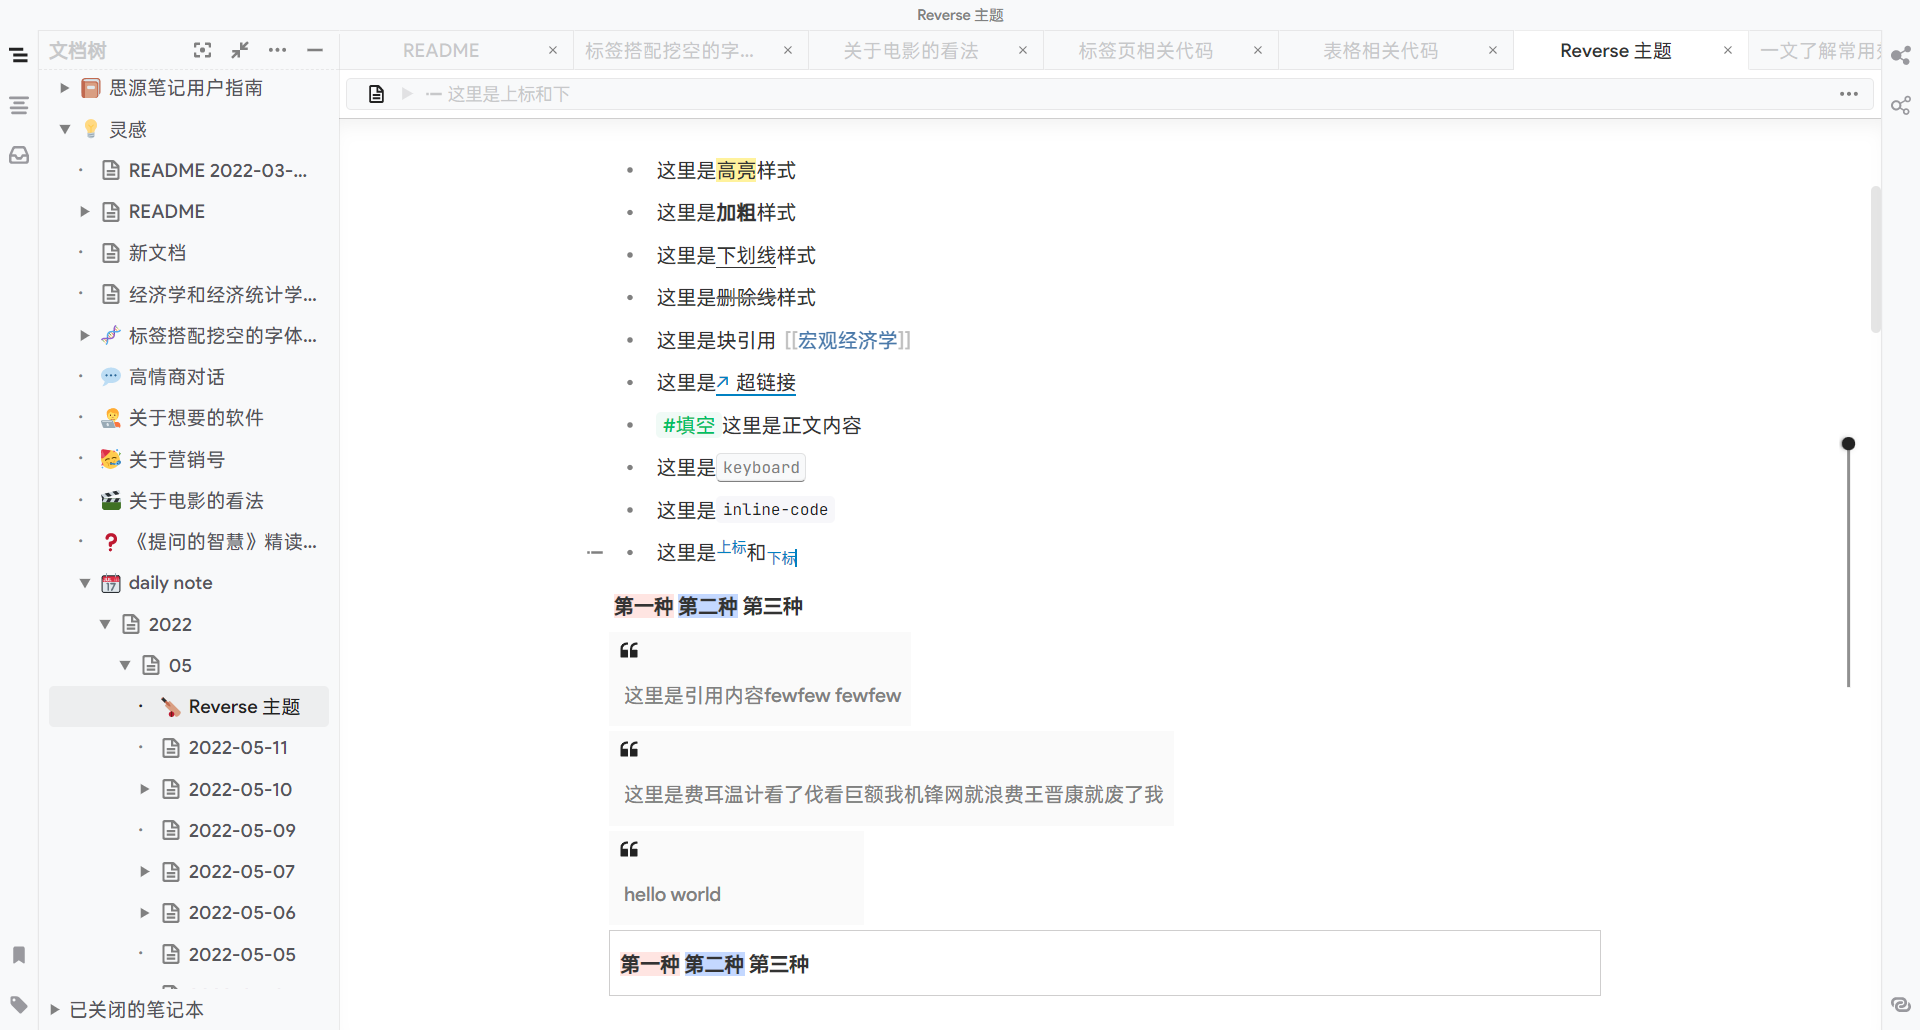
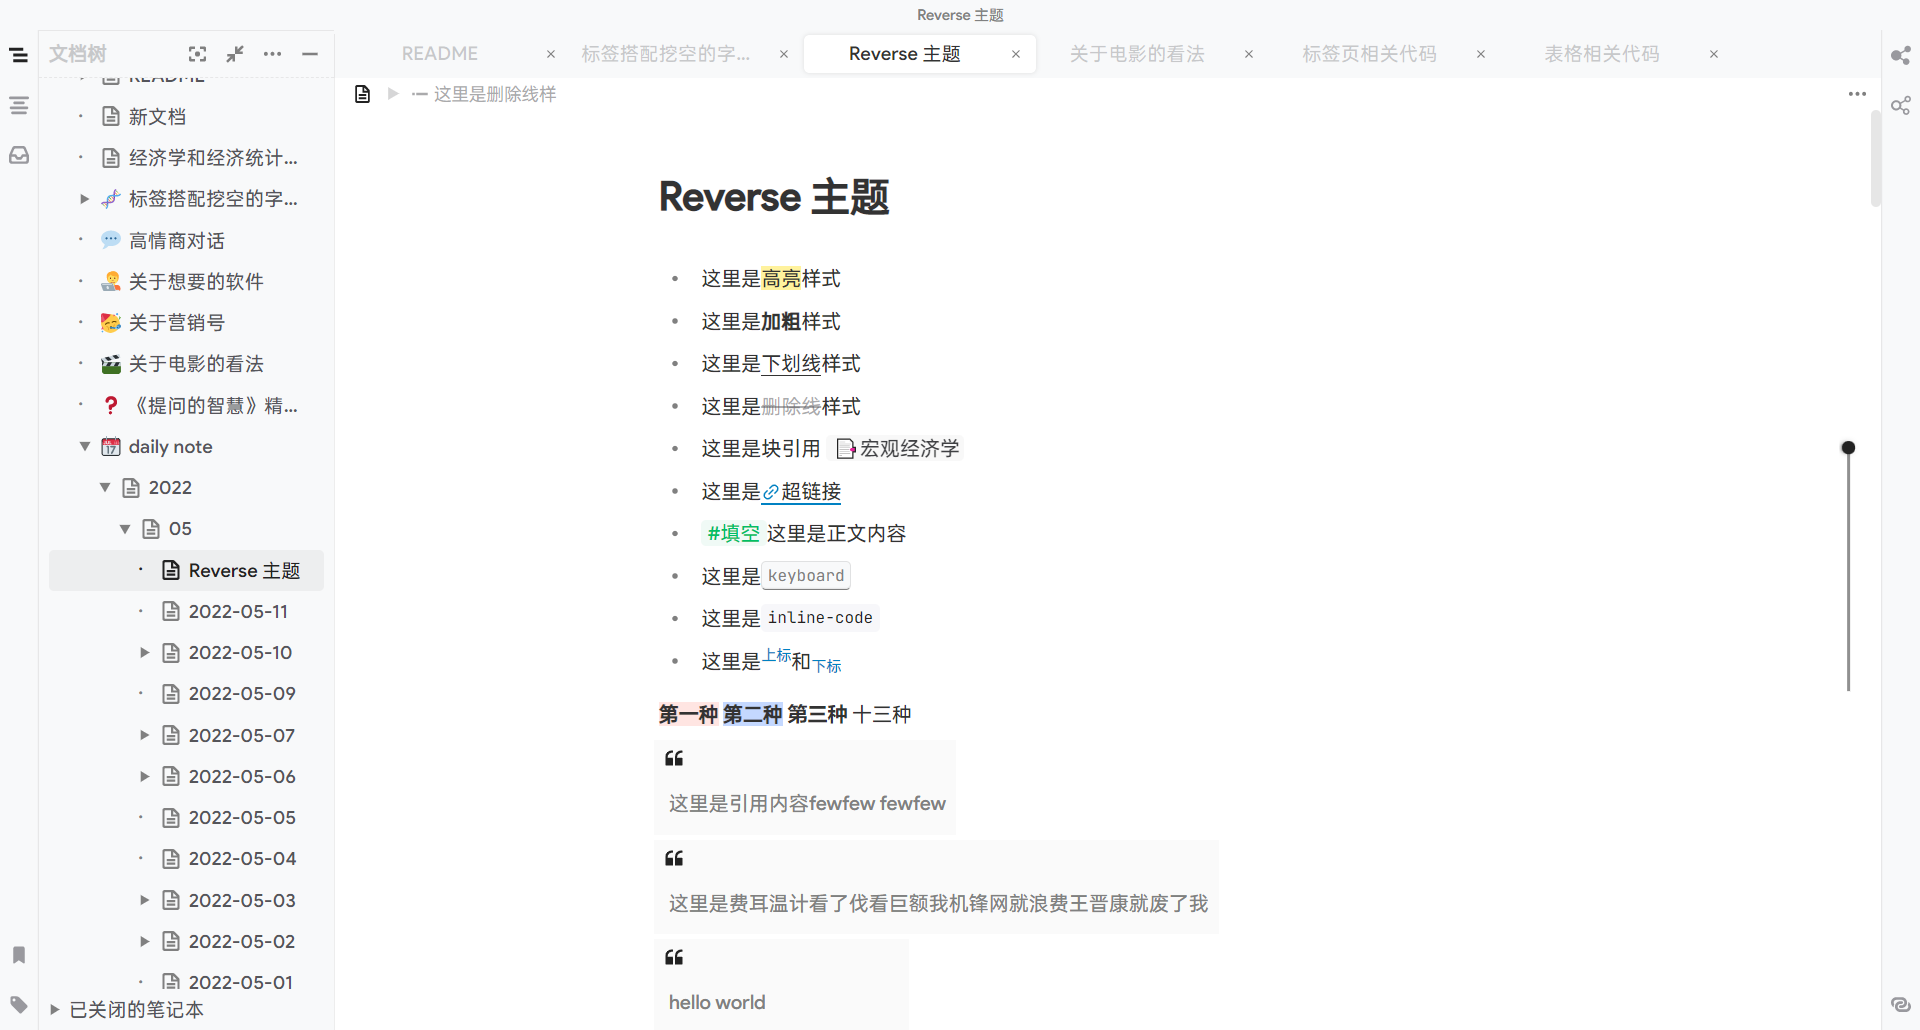
0.15版本

diff --git a/style/02-appearance/tab-bar.css b/style/02-appearance/tab-bar.css
@@ -1,15 +1,9 @@
-/* 本主题标签页部分来自于 lisontowind 制作的 Roundark 主题  */
-/* 感谢 notion-theme 主题作者 Rc 和 city-in-dark主题的作者 Weihan-Chen 给予的帮助 */
-
-
 /* --------------------------------------------------标签页 Tab--------------------------------------------- */
 /* 标签页底部背景颜色,标签页数量较少时可以看到，颜色和标签页颜色保持一致 */
 .layout-tab-bar.fn__flex,
 ul.fn__flex.layout-tab-bar {
-    background-color: white;
+    background-color: #f8f9fa;
 }
-
-
 
 
 /* 标签页相关设置 */
@@ -17,19 +11,16 @@ ul.fn__flex.layout-tab-bar {
     position: relative;
     background-color: #f8f9fa;
     flex: none;
-    /* 设置标签页的宽度 */
-    /* max-width: 16em; */
     min-width: 12em;
-    border: 1px solid rgba(0, 0, 0, .07);
-    border-left-color: transparent;
     border-radius: 0px;
     box-shadow: none;
+    margin-top: 4px;
+    margin-bottom: 4px;
 }
 
-/* .layout-tab-bar .item:last-child {
-    border-right-color: rgba(0, 0, 0, .07);
-} */
-
+.layout-tab-bar .item:first-child {
+    margin-left: 4px;
+}
 
 /* 标签页中文字的相关设置 */
 .layout-tab-bar .item:not(.item--focus) .item__text {
@@ -45,13 +36,15 @@ ul.fn__flex.layout-tab-bar {
 
 /* 设置当前标签页样式 */
 .layout-tab-bar .item--focus {
-    /* color: white; */
     background-color: white;
     box-shadow: none !important;
-    border-radius: 0px;
-    /* border-top: 1px solid var(--b3-theme-primary) !important; */
-    border-bottom: 1px solid transparent !important;
     min-width: 12em;
+    box-shadow:
+        0px 0px 0.5px rgba(0, 0, 0, 0.055),
+        0px 0px 4px rgba(0, 0, 0, 0.11) !important;
+    z-index: 1;
+    border-radius: 4px;
+
 }
 
 /* 设置当前标签页文字样式 */
@@ -59,11 +52,6 @@ ul.fn__flex.layout-tab-bar {
     color: var(--b3-theme-on-background) !important;
     width: 6em;
 }
-
-/* 设置当前标签页中的关闭图标颜色 */
-/* .layout-tab-bar .item--focus .item__close svg {
-    color: white;
-} */
 
 
 

diff --git a/style/02-appearance/breadcrumb.css b/style/02-appearance/breadcrumb.css
@@ -1,17 +1,17 @@
 /* -------------------------------------------------面包屑导航样式-------------------------------------------- */
 .protyle-breadcrumb {
-    color: #55555a4d;
-    background-color: #f8f9fa;
+    color: #55555a80;
+    /* background-color: #f8f9fa; */
     font-size: 14px !important;
     height: 26px;
     text-overflow: ellipsis;
     white-space: nowrap;
     overflow: hidden;
-    margin: 6px;
-    margin-left: 6px;
+    /* margin: 6px; */
+    /* margin-left: 6px;
     margin-right: 6px;
     border: 1px solid rgba(0, 0, 0, .07);
-    border-radius: 4px !important;
+    border-radius: 4px !important; */
 }
 
 .protyle-breadcrumb__item svg {
@@ -19,13 +19,13 @@
     width: 14px;
 }
 
-.fn__flex-1.protyle {
+/* .fn__flex-1.protyle {
     background-color: white;
-}
+} */
 
-.protyle-content {
+/* .protyle-content {
     border-top: var(--b3-border-normal);
     box-shadow: var(--b3-protyle-content-shadow);
-}
+} */
 
 /* -------------------------------------------------面包屑导航样式 END-------------------------------------------- */

diff --git a/style/02-appearance/toolbar.css b/style/02-appearance/toolbar.css
@@ -2,23 +2,24 @@
 .protyle-toolbar {
     background-color: white;
     box-shadow: rgb(0 0 0 / 20%) 0px 4px 20px 0px;
-    border-radius: var(--b3-border-radius-noraml);
+    border-radius: 2px;
+    padding: 4px;
 }
 
 .protyle-toolbar__item {
     color: var(--b3-font-color-gray);
 }
 
-.protyle-toolbar__item:hover:not(.protyle-toolbar__item:focus) {
+.protyle-toolbar__item:hover {
     color: var(--b3-font-color-hover);
-    background-color: var(--b3-theme-hover-gray);
-    border-radius: var(--b3-border-radius-noraml);
+    background-color: rgba(154, 153, 155, .08);
+    border-radius: #222;
 }
 
 .protyle-toolbar__item--current {
-    color: var(--b3-theme-primary) !important;
-    background-color: var(--b3-theme-tm2) !important;
-    border-radius: var(--b3-border-radius-noraml);
+    color: #222 !important;
+    background-color: rgba(154, 153, 155, .12) !important;
+    border-radius: 2px;
 }
 
 /* --------------------------------------------------鼠标选中文本后弹出的工具栏样式 END------------------------------------- */

diff --git a/style/03-inline-span/block-ref.css b/style/03-inline-span/block-ref.css
@@ -2,25 +2,23 @@
 
 /* 设置引用块格式 */
 .protyle-wysiwyg [data-node-id] span[data-type='block-ref'] {
-    color: #2b629b;
+    color: #202124;
     /* background-color: #0066ff1a; */
     padding: 1px 3px;
     border-radius: 4px;
+    background-color: #f7f7f7;
 }
 
 /* 为引用块后面增加引用图标 */
 .protyle-wysiwyg [data-node-id] span[data-type="block-ref"]::before {
-    color: rgba(128, 128, 128, 0.6);
-    content: "[[";
-}
-
-.protyle-wysiwyg [data-node-id] span[data-type="block-ref"]::after {
-    color: rgba(128, 128, 128, 0.6);
-    content: "]]";
+    content: "📑";
+    font-size: 0.9em;
+    margin-left: 0.3em;
+    margin-right: 0.1em;
 }
 
 .protyle-wysiwyg [data-node-id] span[data-type="block-ref"]:hover {
-    background-color: #0066ff1a;
+    background-color: #f8f9fa;
 }
 
 

diff --git a/style/04-block-div/NodeHeading-biaoti.css b/style/04-block-div/NodeHeading-biaoti.css
@@ -19,13 +19,13 @@
 
 /* 设置标题宽度 */
 .protyle-title.protyle-wysiwyg--attr {
-    width: 21cm;
+    width: 19cm;
     margin: 0 auto !important;
 }
 
 /* 修改头图emoji位置 */
 .protyle-background .protyle-background__iconw {
-    left: max(calc((100% - min(1380px, max(790px, 40vw))) / 2), 96px) !important;
+    left: max(calc((100% - min(1380px, max(710px, 40vw))) / 2), 96px) !important;
 }
 
 /* ——————————————————————————H1-H6 标题样式—————————————————————————— */

diff --git a/style/02-appearance/button.css b/style/02-appearance/button.css
@@ -4,10 +4,15 @@
 .b3-button--cancel,
 .b3-button--outline {
     border-radius: var(--b3-border-radius-noraml);
-    background-color: var(--b3-theme-hover2);
+    background-color: #8080803c;
     color: var(--b3-theme-primary);
     /* border: 0.05em solid var(--b3-theme-primary); */
     /* box-sizing: border-box; */
+}
+
+/* 有外框的按钮取消显示外框 */
+.b3-button--outline {
+    box-shadow: none;
 }
 
 /* ————————————————————鼠标悬浮时按钮样式———————————————————— */

diff --git a/style/02-appearance/file-tree.css b/style/02-appearance/file-tree.css
@@ -9,6 +9,9 @@
     background-color: transparent;
     border-top: 1px solid var(--b3-border-color);
     border-bottom: 1px dashed var(--b3-border-color);
+    padding-top: 3px !important;
+    padding-bottom: 3px !important;
+    box-sizing: border-box !important;
 }
 
 /* ————————————————————设置界面字体大小，不包括正文，正文字体大小在编辑器那里选择———————————————————— */

diff --git a/style/03-inline-span/a-link.css b/style/03-inline-span/a-link.css
@@ -6,10 +6,13 @@
 }
 
 .protyle-wysiwyg [data-node-id] span[data-type="a"]:not(:empty)::before {
-    content: "↗";
+    /* content: "↗";
     font-family: var(--b3-font-family-code);
     color: #0081c2;
-    margin-right: 6px;
+    margin-right: 6px; */
+    content: url("../../src/link.svg");
+    position: relative;
+    top: 0.2em;
 }
 
 /* 集市中说明文档链接样式 */

diff --git a/style/02-appearance/A4.css b/style/02-appearance/A4.css
@@ -6,10 +6,10 @@
 /* 设置正文背景颜色/A4纸大小 */
 .protyle .b3-typography,
 .protyle .protyle-wysiwyg {
-    max-width: 21cm;
+    max-width: 19cm;
     margin: 4px auto 4px !important;
-    padding-left: 0cm !important;
-    padding-right: 0cm !important;
+    padding-left: 1cm !important;
+    padding-right: 1cm !important;
 }
 
 /* .protyle-content {

diff --git a/style/04-block-div/list.css b/style/04-block-div/list.css
@@ -92,7 +92,7 @@
 
 /* 折叠待办事项前面的图标 */
 div[fold="1"] .protyle-action.protyle-action--task {
-    content: url(../../src/dui-flod.svg);
+    content: url(../../src/dui-fold.svg);
     width: 1.2em;
     height: 1.2em;
     top: 0.4em !important;

diff --git a/style/03-inline-span/line-through.css b/style/03-inline-span/line-through.css
@@ -2,5 +2,6 @@
 .b3-typography s,
 .protyle-wysiwyg s {
     text-decoration: line-through;
-    text-decoration-color: gray;
+    text-decoration-color: #55555a80;
+    color: #55555a80;
 }

diff --git a/README.md b/README.md
@@ -4,4 +4,33 @@
 - 内置了字体
 - 模仿印象笔记新出的 Verse 主题，整体色彩淡雅，以白色和灰色为主
 - 配色用的是 blue-dog 的默认配色
+- **本主题不得商用**
 
+### 字体来源
+
+| 字体名称     | 字体官网                                                     | 说明           |
+| ------------ | ------------------------------------------------------------ | -------------- |
+| OPPOSans     | https://open.oppomobile.com/bbs/forum.php?mod=viewthread&tid=2274 | 中文字体       |
+| ProductSans  | https://developers.google.cn/fonts/                          | 英文和数字字体 |
+| JsbrainsMono | https://www.jetbrains.com/lp/mono/                           | 代码字体       |
+
+### 更新说明
+
+#### 0.15版本
+
+- 增加字体的官网和地址，并附上感谢
+- 修改编辑区域和文档标题的 padding
+- 修改标签页样式，标签页类似于火狐浏览器的标签页样式（浏览器标签页样式已经不够用了...)
+- 统一圆角或者是直角（滚动条，鼠标悬浮）
+- 修改双链样式，[[]]更换为emoji，并且增加背景颜色（可以是 emoji，也可以是 svg)
+  - 难度简单可以用emoji，但是会导致各系统上emoji有差异（win11上的很不好看）
+  - 难度大一点可以像实现 Zhang-light 超链接前的图标一样，首先将 emoji 转化为图片，再通过 background 属性进行设置
+- 修改面包屑样式，降低面包屑的显眼程度
+- 修改按钮颜色
+- 修改待办事项样式
+- 删除线文字颜色变淡
+
+#### 未来计划
+
+- 删除无效代码，统一使用root里边的颜色，方便大家进行自定义
+- 顺便可以制作出相应的暗色主题
